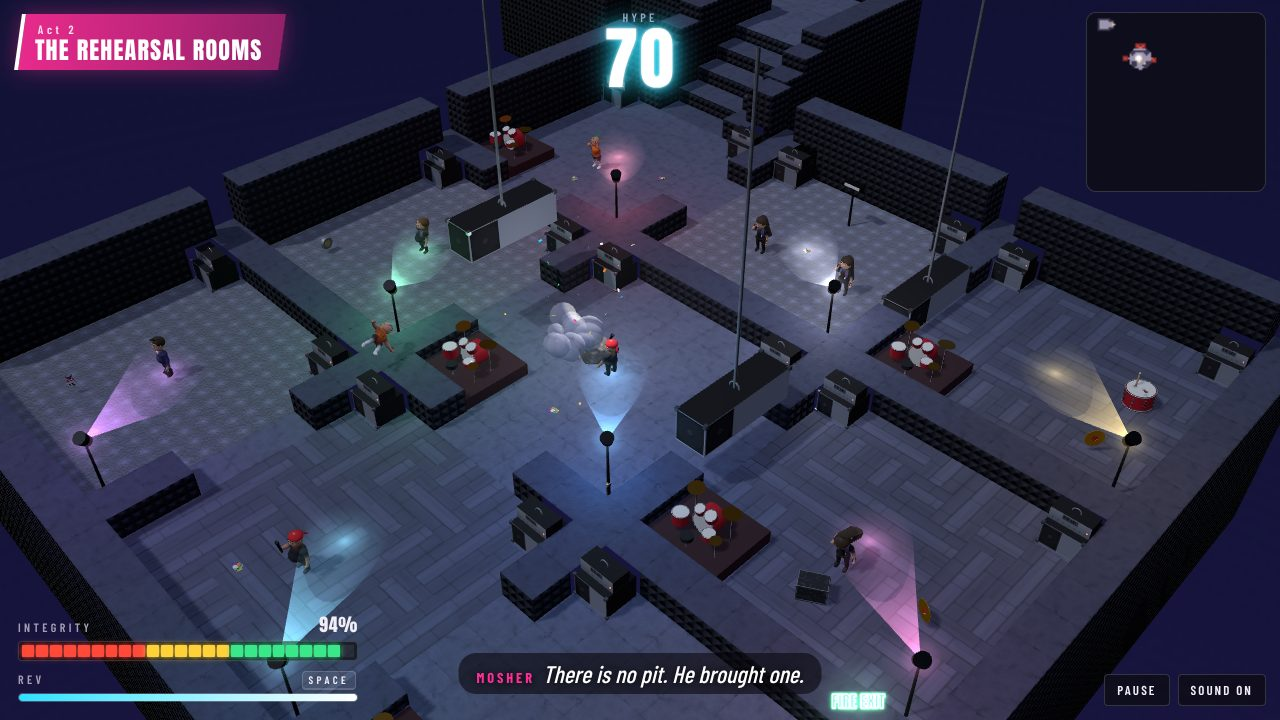
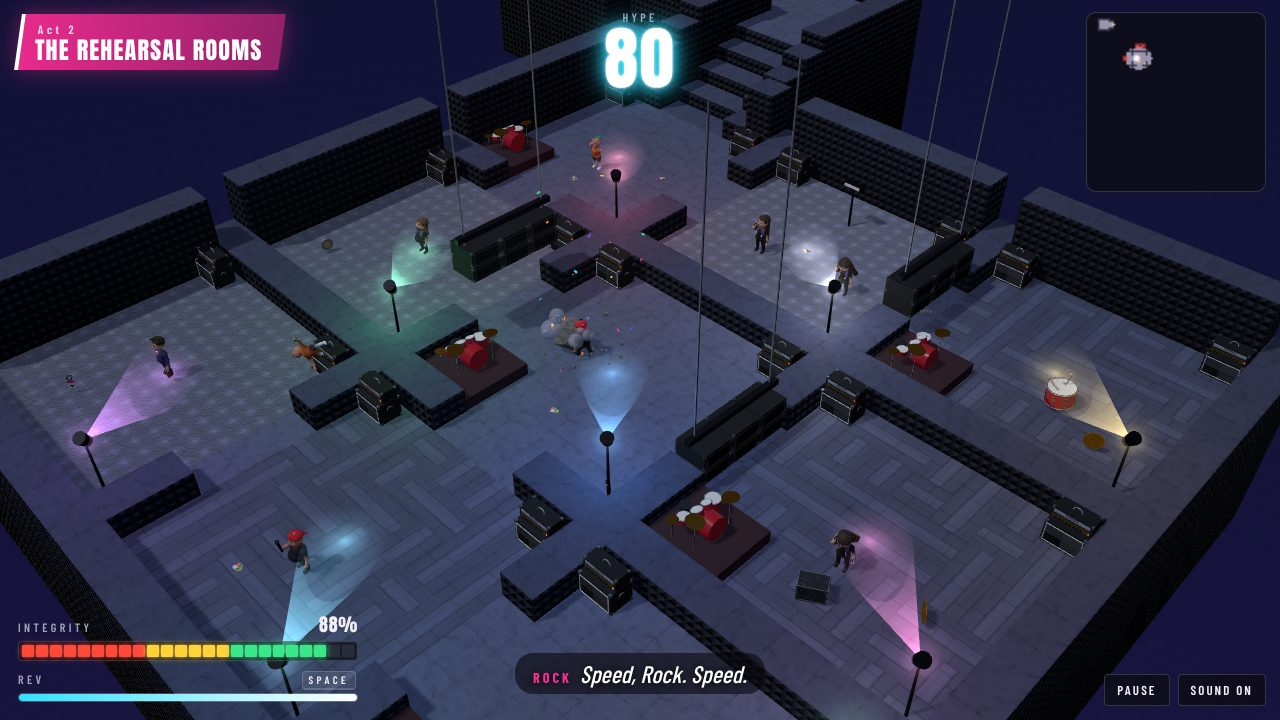
A README with screenshots of every venue, the cast and the bosses; pickups stand on the floor instead of hovering
Claude-Session: https://claude.ai/code/session_01MymErdy5SNdicFiRhqGks2

diff --git a/src/actors.js b/src/actors.js
@@ -19,6 +19,9 @@ const DOOR_THICKNESS = 0.18;
 /** Further than this from Rock, a foe with nothing to do stops being simulated. */
 const SLEEP = 26;
 
+/** How far each turning pickup's model is let down to touch the floor (its lowest point, as sculpted, is above it). */
+const SETTLE = Object.freeze({ tape: -0.014, pass: -0.078, record: -0.062, lighter: 0.005 });
+
 /** Pickups that lie on the floor rather than float. */
 const STILL = new Set(['pick', 'case']);
 
@@ -538,7 +541,8 @@ export function createActors(GFX, venue, world, { killY }) {
         p.mesh.visible = !p.taken;
         if (p.taken) continue;
         if (STILL.has(p.kind)) continue;
-        p.spin.position.y = 0.06 + Math.sin(time * 2.4 + i) * 0.05;
+        // Standing on the floor and turning, not hanging in the air.
+        p.spin.position.y = SETTLE[p.kind] ?? 0;
         p.spin.rotation.y = time * 1.6 + i;
       }
     },

diff --git a/README.md b/README.md
@@ -1,0 +1,52 @@
+# Rock 'n' Roller
+
+A granite boulder called Rock goes on tour. Ten venues, from a two-car garage to a stadium on the last night, each one a level to roll down through: smash the annoying people in the way, smash the furniture while you're at it, keep clear of the speaker stacks and the pyro, find the three gold records hidden in every venue, and get to the stage door in one piece.
+
+It runs in the browser (WebGPU, or WebGL 2 where there isn't any), with everything made in code: the venues are dug a piece at a time, the cast and the props are sculpted from signed distance fields and baked in the background, and the band playing under it all is synthesised live with Web Audio and keeps the beat the light show and the hazards follow.
+
+![The Club](docs/screenshots/4-club.jpg)
+
+## The tour
+
+| | |
+|---|---|
+| ![The Garage](docs/screenshots/1-garage.jpg) **1. The Garage.** Where Rock starts: a band room under fairy lights, a basement, the neighbour with a broom. Everything is taught here. | ![The Rehearsal Rooms](docs/screenshots/2-rehearsal.jpg) **2. The Rehearsal Rooms.** A block of nine practice rooms, a band in each, the PA dropping in the doorways; a locked fire door and a slide down the fire escape. |
+| ![Sticky's](docs/screenshots/3-dive.jpg) **3. Sticky's.** A dive bar: a floor that slows you down, pinball bumpers, a pool room with an 8-ball that holds a grudge. | ![The Club](docs/screenshots/4-club.jpg) **4. The Club.** A queue doubling back along the street, a podium dance floor under the tour's one mirror ball, a crowd-surf over the pit, and the Promoter, who lunges for his cut. |
+| ![The Loading Dock](docs/screenshots/5-dock.jpg) **5. The Loading Dock.** Belts toward the edge, a parcel chute, a goods lift, warehouse racking with crates coming off the crane, forklifts across the bays. | ![The Studio](docs/screenshots/6-studio.jpg) **6. The Studio.** A corridor of isolation booths hiding what you need, a live room with a chicane of live cable, a stairwell zig-zagging down. |
+| ![The Opera House](docs/screenshots/7-opera.jpg) **7. The Opera House.** Chandeliers, a balcony over nothing, a slalom down the stalls, one plank over the pit, and the Maestro, who only moves on the beat. | ![The Festival](docs/screenshots/8-festival.jpg) **8. The Festival.** An island with no walls: a campsite maze, a mud slide, a boardwalk with no rail, a main-stage field the size of a level. |
+| ![The Arena](docs/screenshots/9-arena.jpg) **9. The Arena.** A concourse ring round the seating with two ways round, a gated tunnel down to the show floor, and the players' tunnel with the pyro on a timer. | ![The Stadium](docs/screenshots/10-stadium.jpg) **10. The Stadium.** Down from the top of the stands on the ramps, across the pitch, out along the catwalk to the Headliner, who stamps. |
+
+## The people in the way
+
+![The cast](docs/screenshots/cast.jpg)
+
+Little brothers, angry neighbours, drunks, moshers, hipsters, roadies, critics, A&R men, security, bouncers, camera drones and more, each with their own build, and three bosses with their own move each:
+
+![The Promoter, the Maestro and the Headliner](docs/screenshots/bosses.jpg)
+
+## Playing
+
+- **Roll:** arrow keys or WASD (two at once for the diagonals), or hold the mouse or a finger anywhere and Rock is pushed toward it. A gamepad's left stick works too.
+- **Rev:** hold Space or Shift (or the on-screen button, or A on a pad) for a burst of push and speed while the rev meter lasts: that's how you hit hard.
+- **View:** Q and E turn it, + and − zoom, C puts it back; or drag with the right mouse button, or pinch and twist.
+- **Pause:** P or Escape. **Mute:** M.
+
+Hit people fast enough and they go down in one; too slow and they hurt you back. Picks and road cases are hype, gaff tape holds you together, a lighter is an encore, a pass opens a gate. Three gold records per venue, and a smash on three in four of the people there, are the other two stars.
+
+## Developing
+
+Node 22.12 or later.
+
+```sh
+npm install
+npm run dev      # the game on http://localhost:5173, the models on /models.html
+npm test         # the rules, the physics, and an autopilot that plays every venue through
+npm run lint
+npm run build
+```
+
+- `node scripts/map.js 4` prints venue 4 as text, for laying one out (`--heights` for the floor heights).
+- `node scripts/bake.js [name] [detail]` bakes the sculpted models and says how big they came out.
+- `/models.html?m=promoter,maestro,headliner` is a turntable for the cast and the props.
+
+The venues are in `src/venues/`, each dug with `src/dig.js`; the cast is in `src/models/cast/`, all of them on the humanoid rig in `humanoid.js` with a build of their own; the band is `src/music.js`. The test in `test/venues.test.js` drives every venue to the stage door, picking up every record, and checks that everything lying about can be reached.
